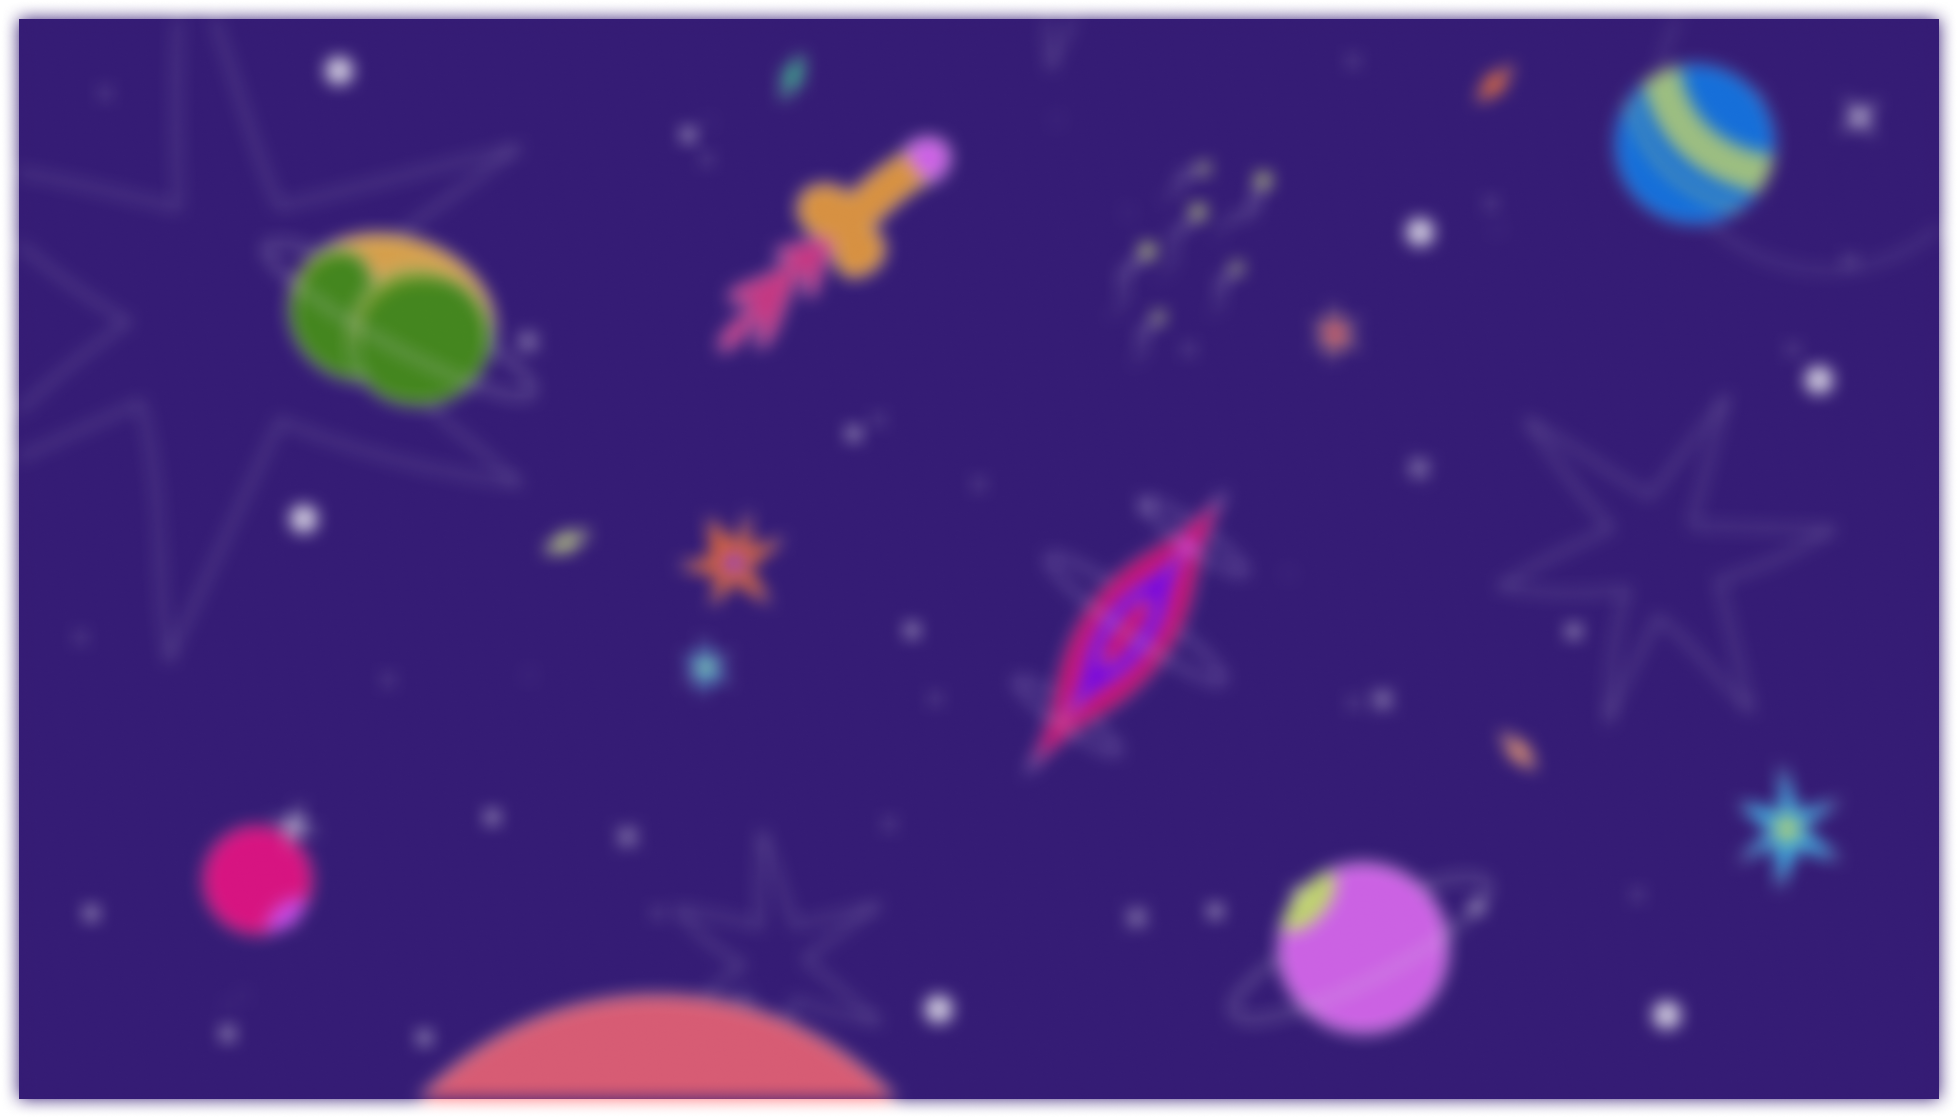
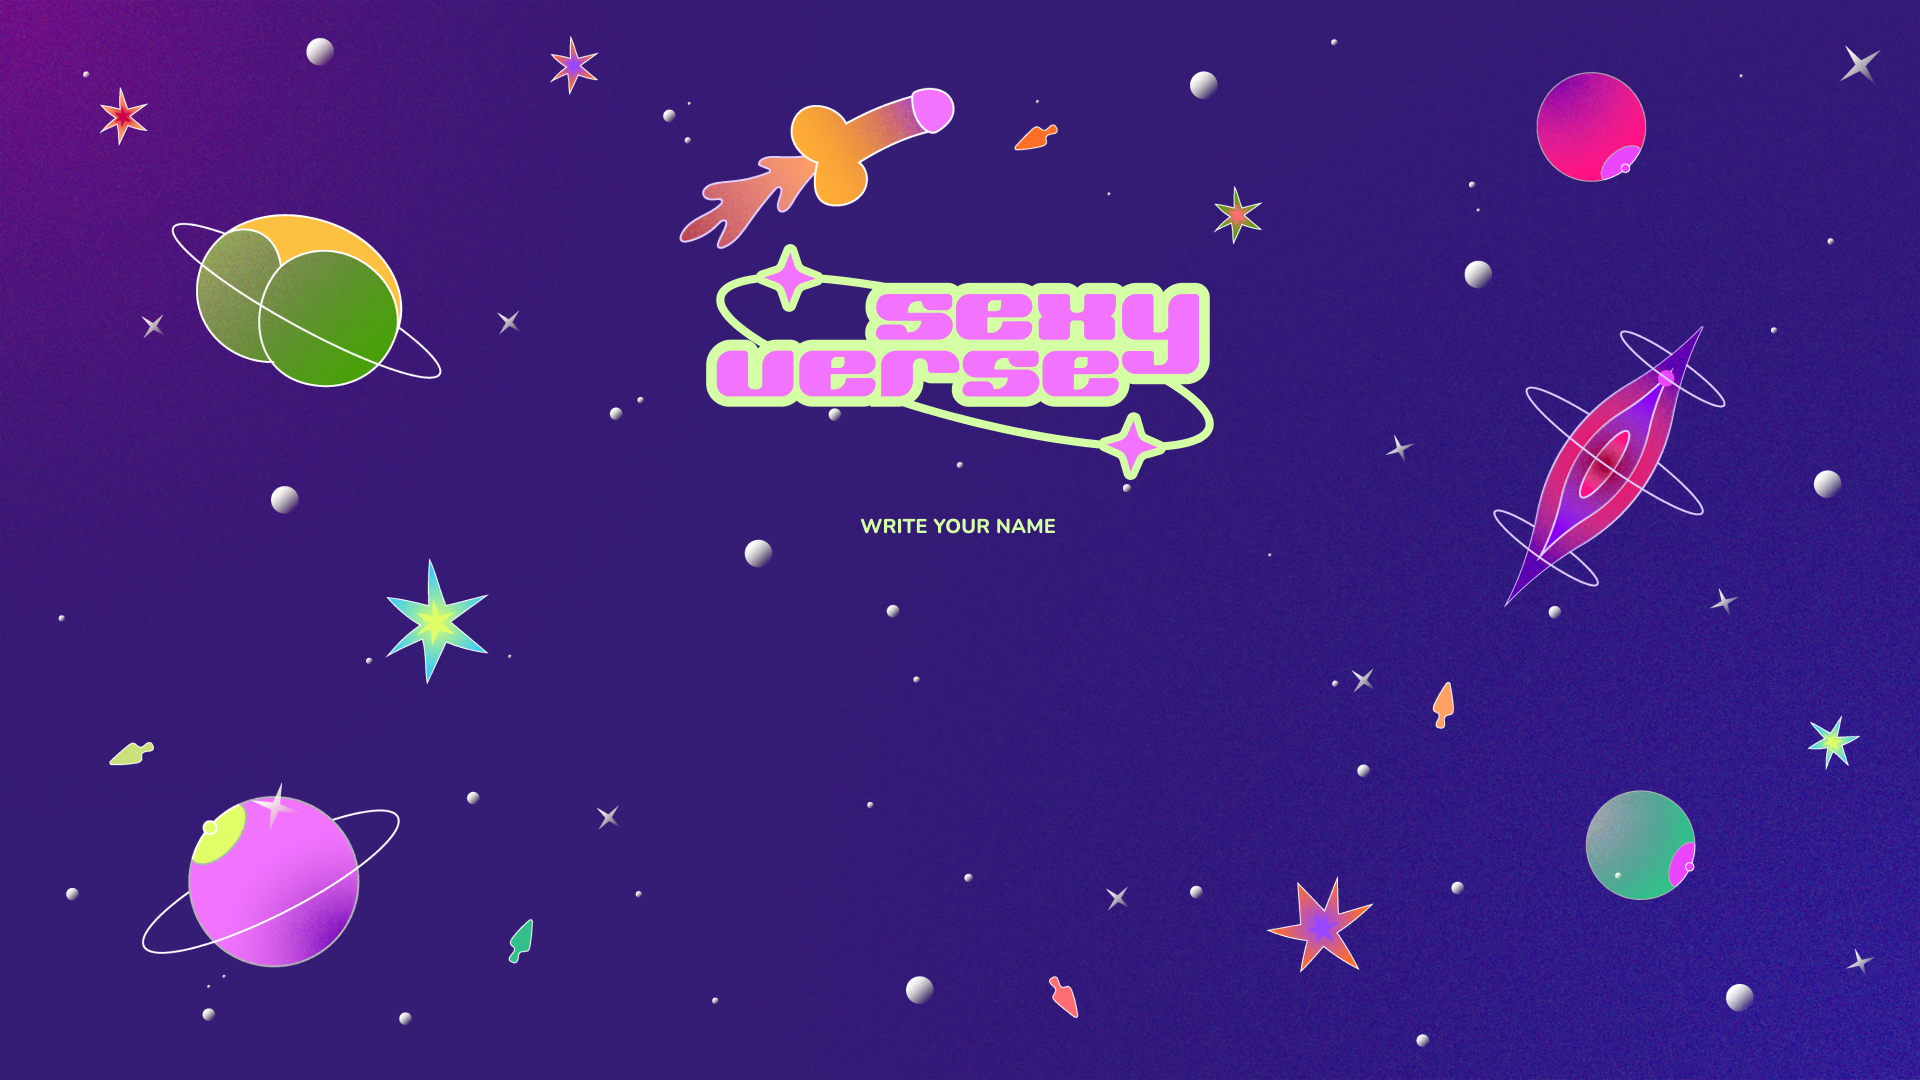
home sistemata

diff --git a/home.js b/home.js
@@ -47,6 +47,7 @@ function setup() {
   welcome = createImg("./assets/img/WELCOME.png");
   welcome.position(0,0);
   welcome.show();
+  welcome.size(windowWidth, windowHeight);
 
   vision = loadImage("./assets/img/Vision.png");
   rin_worried = loadImage("./assets/img/characters/Rin_worried.png");
@@ -110,17 +111,18 @@ function setup() {
   //write your name
   yourname = createInput();
   yourname.style("color: #ffffff; background:rgba(224, 254, 104, 0.3); border-radius: 50px; border: 1px solid #E0FE68; width: 244px; height: 43px; padding-left: 10px; font-size: 15px;text-align: center; font-family:Nunito;");
-  yourname.position((windowWidth / 2)-244/2, windowHeight/2);
+  yourname.position((windowWidth / 2)-244/2, (windowHeight/2)+20);
 
-  write = createP("Your name");
-  write.position(windowWidth/2 - 100, windowHeight/3);
-  write.style("color:white; font-size:30px; font-weight: bold;");
+  //write = createP("Your name");
+  //write.position(windowWidth/2 - 100, windowHeight/3);
+  //write.style("color:white; font-size:30px; font-weight: bold;");
 
   //submit
   button = createButton('lets go');
   button.style("border-radius: 50px; border: 1px solid #E0FE68; width: 244px; height: 43px; padding-left: 10px; font-size: 15px; font-family:Nunito;");
-  button.position(windowWidth/2 - 244/2, windowHeight/2 + 100);
+  button.position((windowWidth/2) - 234/2, (windowHeight/2) + 100);
   button.mousePressed(name);
+
 
   checkbox = createCheckbox('I accept the sexy rulez <3', false);
   checkbox.position((width/2) - checkbox.width/9, height * 8 / 12 - 60);
@@ -183,6 +185,7 @@ function draw() {
   //video chapter 1
   if(start == true && video == true && go_on == 0){
 
+    button.hide();
     welcome.hide();
     image(chapter_1, 0, 0, windowWidth, windowHeight);
 
